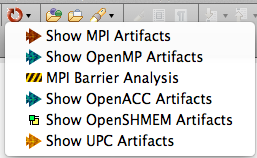
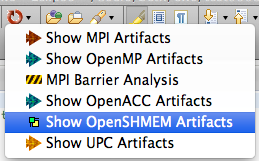
OpenSHMEM help; update OpenACC as well

diff --git a/tools/pldt/org.eclipse.ptp.pldt.doc.user/html/runOpenSHMEM.html b/tools/pldt/org.eclipse.ptp.pldt.doc.user/html/runOpenSHMEM.html
@@ -1,71 +1,77 @@
 <html>
 <head>
 <title>
-Running the OpenACC Tools within the Parallel Language Development Tools
+Running the OpenSHMEM Tools within the Parallel Language Development Tools
 </title>
 	<link rel="stylesheet" type="text/css" href="help.css">
 	<link rel="stylesheet" type="text/css" href="help.css">
 	<script type="text/javascript" src="thumb.js"> </script>
 	</head>
 <body>
-<h1 id="top"> Running the OpenACC Tools within the Parallel Language Development Tools</h1>
+<h1 id="top"> Running the OpenSHMEM Tools within the Parallel Language Development Tools</h1>
 
-<p>The Parallel Language Development Tools work on C, C++, and Fortran projects.
-
+<!--  <p>The Parallel Language Development Tools work on C, C++, and Fortran projects.
+-->
 <ol>
-<li>Within the project, create a source file that includes OpenACC code.
-<li>In the Project Explorer View, select the source file to analyze, to find the OpenACC artifacts.
+<li>Within the project, create a source file that includes OpenSHMEM code.
+<li>In the Project Explorer View, select the source file to analyze, to find the OpenSHMEM artifacts.
 To do this, select the source file in the Project Explorer on the left to highlight it.
-<p>Select the "Show OpenACC Artifacts" menu item in the PLDT icon menu  in the tool bar.
-<br> <img src="images/accMenu.png">
+<p>Select the "Show OpenSHMEM Artifacts" menu item in the PLDT icon menu  in the tool bar.
+<br> <img src="images/pldt-menu-OpenSHMEM.png">
 <br>(Note: if it complains that a source file is not selected the first time, select it again and retry.)
 <p>The workbench with the selection and menu item is shown below:
 
-<p><script> thumb("images/accButtons.gif",300)</script>
-<li>The OpenACC Artifact View is opened, if it was not present.
-It is populated with OpenACC artifacts found.
-<p><script> thumb("images/accViewAnn.gif",300)</script>
+<p><script> thumb("images/shmemButtons.png",300)</script>
+<p>&nbsp;
+<li>The OpenSHMEM Artifact View is opened, if it was not present.
+It is populated with OpenSHMEM artifacts found.
+<p><script> thumb("images/shmemViewAnn.png",300)</script>
 
 
 <p>&nbsp;
-<li>Double click on any line in the OpenACC Artifact View
+<li>Double click on any line in the OpenSHMEM Artifact View
 to navigate the editor to that line in the source file.
-<li>Rows in the OpenACC Artifact View can be sorted by any of the columns.
+<p>&nbsp;
+<li>Rows in the OpenSHMEM Artifact View can be sorted by any of the columns.
 Select the column heading to sort.
-<li>Select the "Clear OpenACC Artifacts Markers" button (red X)
-in the tool bar <i>of the OpenACC Artifact View</i> to remove all
-the OpenACC artifact markers.
-<br><img src="images/accClearMarkers.png"> 
+<p>&nbsp;
+<li>Select the "Clear OpenSHMEM Artifacts Markers" button (red X)
+in the tool bar <i>of the OpenSHMEM Artifact View</i> to remove all
+the OpenSHMEM artifact markers.
+<br><img src="images/shmemClearMarkers.png"> 
+<p>&nbsp;
 <li>You can run the analysis on another file and its markers
 will be added to the view.
+<p>&nbsp;
 <li>You can run the analysis on more than one file (multiple selection)
 or a container (folder or project), to analyze more than one file at a time.
 Click on a project or a folder, then select the
-"Show OpenACC Artifacts" action
+"Show OpenSHMEM Artifacts" action
  to run it on all C source files in that folder.
-<br> <img src="images/accMenu.png">
-<p>
+<br> <img src="images/pldt-menu-OpenSHMEM.png"> 
+<p>&nbsp;
 <li><b>Hover Help</b><br>
 In the editor, hover over an OpenSHMEM api and a popup box shows details of that API.
-<!--  fixme need image-->
-<p>
+<br><img src="images/shmemHoverHelp.png">
+<p>&nbsp;
 <li><b>Content Assist</b><br>
-Type an incomplete OpenACC function name e.g. "acc_get_"
+Type an incomplete OpenSHMEM function name e.g. "shmem_"
 and hit Ctrl-Space. The information that is shown
 is populated with CDT completions including argument
-types, but in addition, the PTP-OpenACC tools also provide
-specific information about actual OpenACC functions
+types, but in addition, the PTP-OpenSHMEM tools also provide
+specific information about actual OpenSHMEM functions
 where appropriate, and a yellow popup with additional 
 textual descriptive information about the function.
 Pick the one you want with the arrow keys or the mouse, to add the API to your source file.
-<br><img src="images/accContentAssist.gif">
-<p>
+<br><img src="images/shmemContentAssist.png">
+<p>&nbsp;
 <li><b>Context sensitive help</b><br>
 Also, if F1 is pressed when the cursor is within
 a function name, a help view appears which shows additional information.
 (In Linux press Ctrl-F1; in Mac Use Help button or use menu Help > Dynamic Help)
-<br><img src="images/accDocsFortran.png">
-
+<br><img src="images/shmemDocs1.png">
+<p>Click on the link to navigate to the doc file for that API.
+<br><img src="images/shmemDocs2.png">
 <!-- li><b>Context sensitive help</b><br>
 Also, if F1 is pressed when the cursor is within
 a function name, a help view appears which shows additional information.
